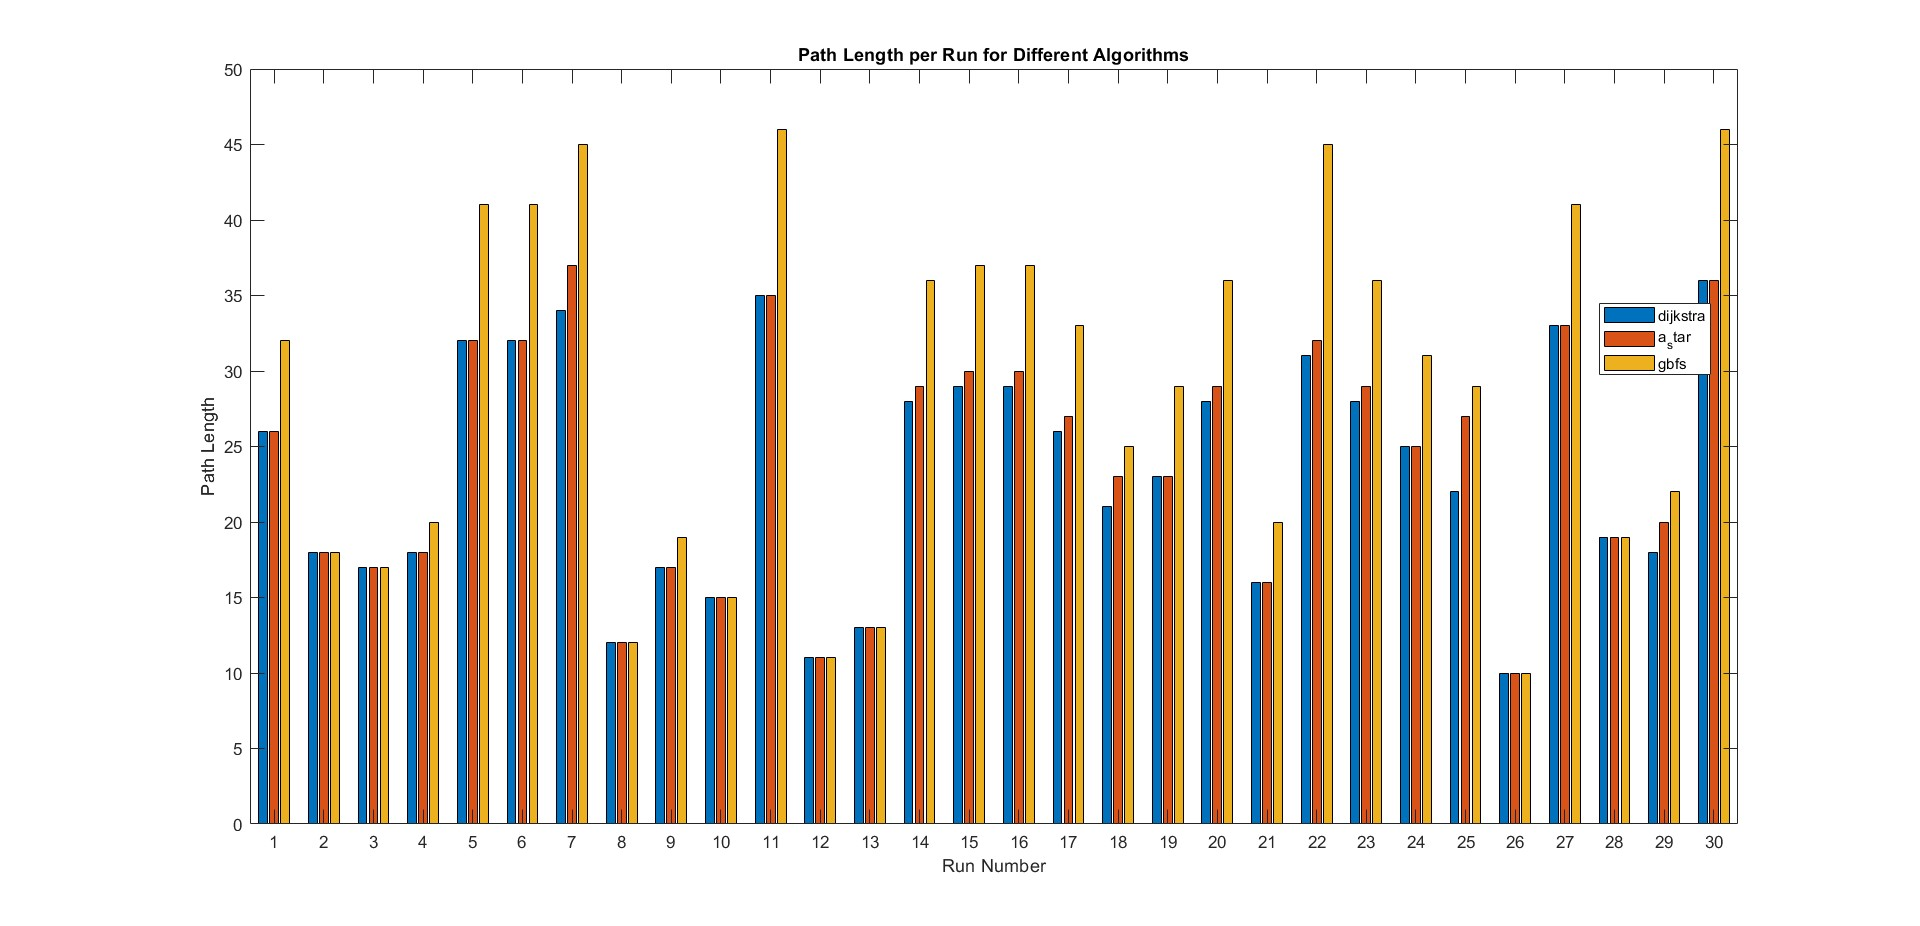
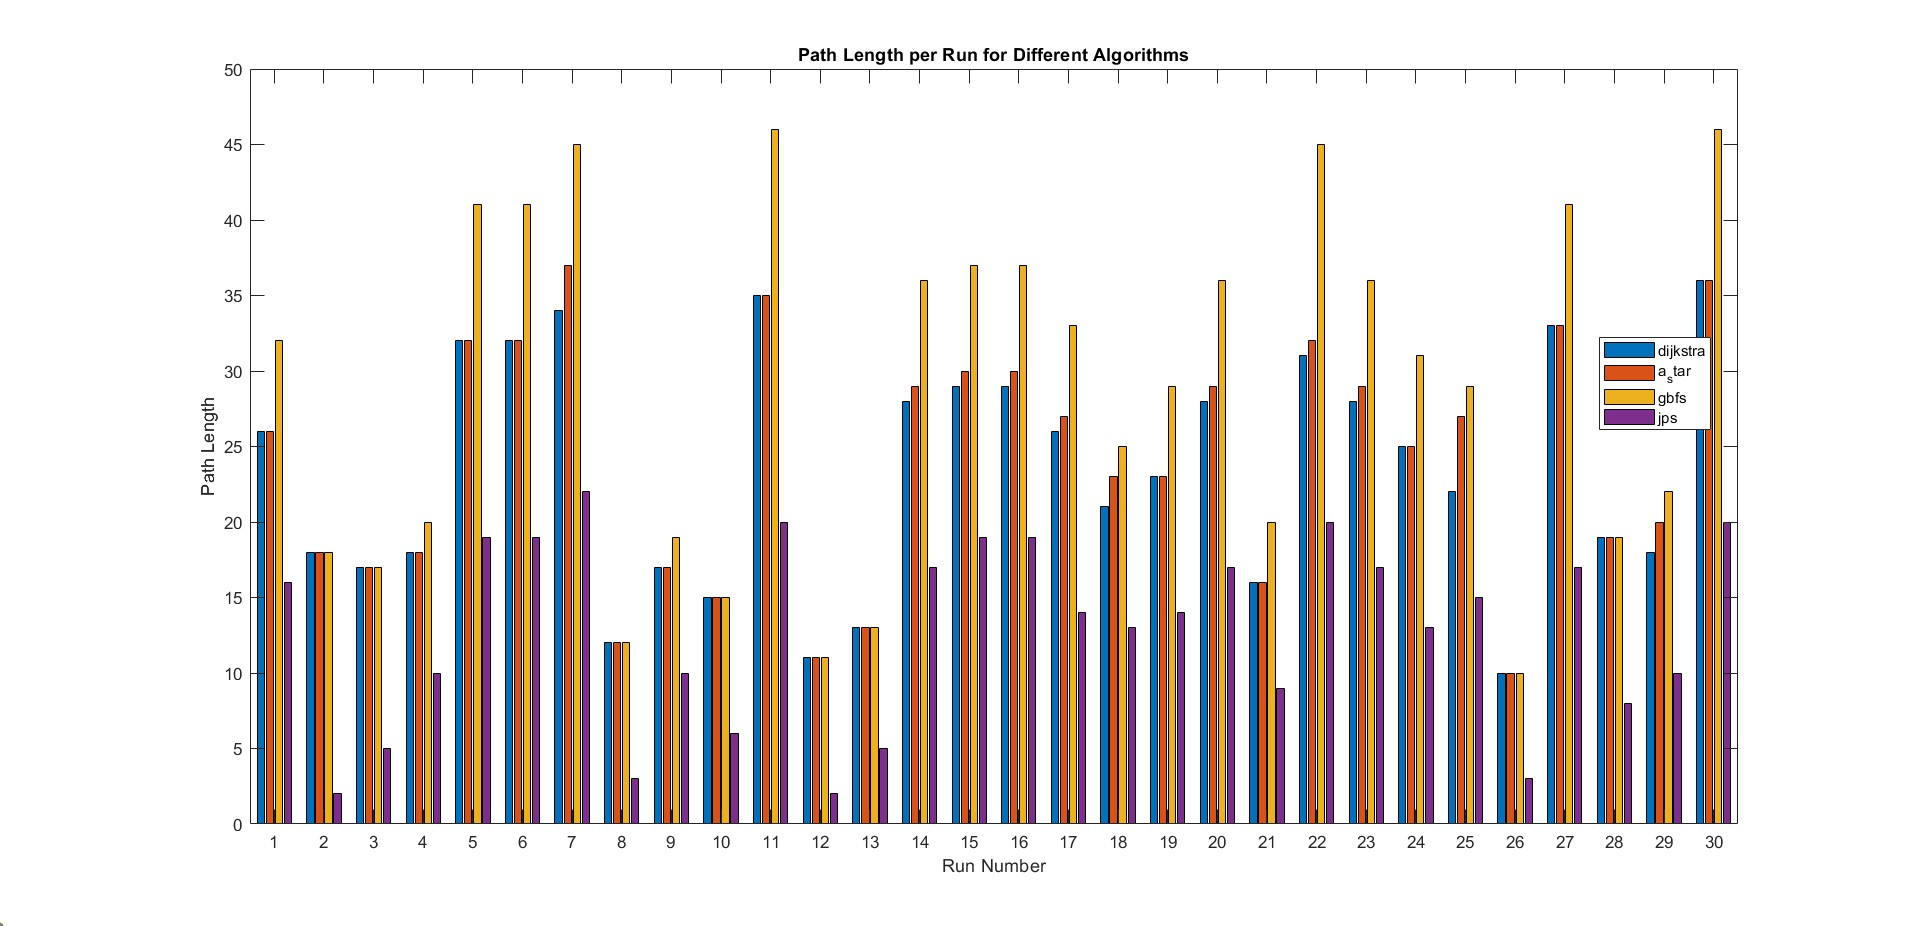
Update simulation3 and 4  with jps algorithm og CDF ploting

Changed region(s): [[0.125, 0.121, 0.9062, 0.9071]]

diff --git a/simulation4.m b/simulation4.m
@@ -18,8 +18,8 @@ G = 1;
 mode = "static";
 
 % Number of runs and algorithms
-num_runs = 5;  % Set to 30 runs with random start points and a fixed goal point
-algorithms = {'dijkstra', 'a_star', 'gbfs', 'jps'};  % Add JPS to the list of algorithms
+num_runs = 5;  
+algorithms = {'dijkstra', 'a_star', 'gbfs', 'jps'}; 
 num_algorithms = length(algorithms);
 
 % Pre-allocate arrays to store path lengths, times, and costs for each algorithm
@@ -40,7 +40,7 @@ if num_free_spaces == 0
 end
 
 % Set a fixed goal point at (19, 29)
-fixed_goal = [19, 29];  % Manually set the fixed goal point
+fixed_goal = [19, 29];  % the fixed goal point
 
 % Generate random start points for each run (with fixed goal point)
 start_points = zeros(num_runs, 2);
@@ -56,7 +56,7 @@ for i = 1:num_runs
     figure;  % Create a new figure for each run
     imagesc(warehouse);  % Display the warehouse map
     hold on;
-    colormap("sky");  % Set color to grayscale
+    colormap("sky");  
     axis equal;
     title(['Run ', num2str(i), ' - All Algorithms']);
     xlabel('X');
@@ -67,7 +67,7 @@ for i = 1:num_runs
     plot(start_points(i, 2), start_points(i, 1), 'bo', 'MarkerSize', 8);  % Plot random start point (blue circle)
     
     % Colors for each algorithm: Dijkstra = blue, A* = orange, GBFS = green, JPS = cyan
-    colors = {[0.2 0.6 0.9], [0.9 0.6 0.2], [0.6 0.9 0.2], [0.2 0.8 0.8]};  % Add cyan for JPS
+    colors = {[0.2 0.6 0.9], [0.9 0.6 0.2], [0.6 0.9 0.2], [0.2 0.8 0.8]};  
 
     algorithm_colors = colors;
     

diff --git a/simulation3.m b/simulation3.m
@@ -19,7 +19,7 @@ mode = "static";
 
 % Number of runs and algorithms
 num_runs = 30;  % Set to 30 runs with random start points and a fixed goal point
-algorithms = {'dijkstra', 'a_star', 'gbfs', 'jps'};  % Add JPS to the list of algorithms
+algorithms = {'dijkstra', 'a_star', 'gbfs', 'jps'}; 
 num_algorithms = length(algorithms);
 
 % Pre-allocate arrays to store path lengths and times for each algorithm
@@ -103,7 +103,7 @@ disp(result_table);
 figure;
 imagesc(warehouse);  % Display the warehouse map
 hold on;
-colormap("sky");  % Set color to grayscale
+colormap("sky");  
 axis equal;
 title('Warehouse Map with Paths for Different Start Points and Fixed Goal (19, 29)');
 xlabel('X');
@@ -134,9 +134,8 @@ for j = 1:num_algorithms
     end
 end
 
-% Update the legend to reflect the correct colors and symbols for each algorithm
-legend({'Goal (red star)', 'Start (blue circle)', 'Dijkstra (green)', 'A* (blue)', 'GBFS (red)', 'JPS (cyan)'}, 'Location', 'best');
-
+% Update the legend for the current plot
+    legend({'Goal (red star)', 'Start (blue circle)', 'Dijkstra', 'A*', 'GBFS', 'JPS'}, 'Location', 'best');
 hold off;
 
 % Plot the path lengths for all algorithms in one bar chart

diff --git a/README1.md b/README1.md
@@ -84,10 +84,12 @@ This diagram shows the path lengths found by each algorithm for 30 different run
 
 ![Paths Length](Images/Path_lengths.jpg)
 
+![CDF to Paths Length](Images/CDF_Path.jpg)
 ### 2. Time Taken per Run
 This diagram shows the computation time taken by each algorithm for 30 different runs in the second.
 
 ![Time Diagram](Images/Time_diagram.jpg)
+![CDF to Time](Images/CDF_Time.jpg)
 
 ### 4. Paths Visualized on the Grid Map
 This image shows the paths found by each algorithm (color-coded) on the grid map for various start points. This may help to understand the working of the algorithms
